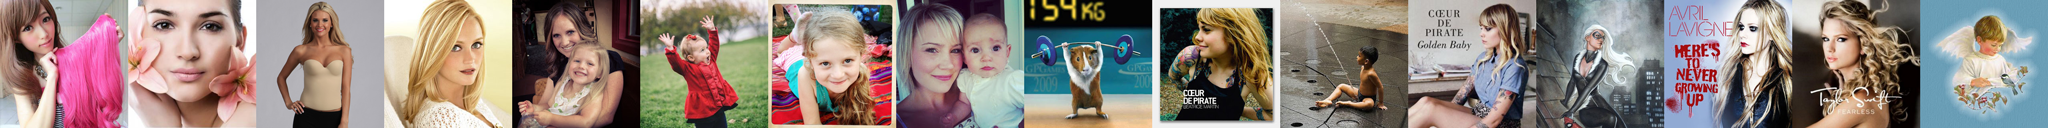
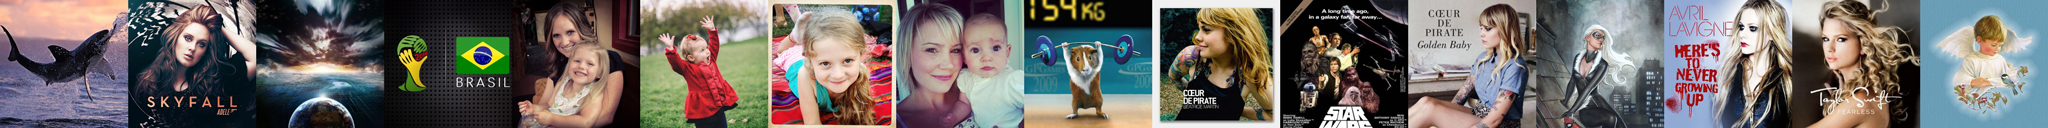
change the name and fix bugs

diff --git a/minigame/src/com/phoenixie/minigame/MiniGame.java b/minigame/src/com/phoenixie/minigame/MiniGame.java
@@ -303,8 +303,7 @@ public class MiniGame extends Game implements GestureListener {
 
 		tableWidth = TABLE_WIDTH;
 		boiteWidth = (tableWidth - 2 * CADRE_WIDTH - (boiteHorzCount - 1)
-				* LINE_WIDTH)
-				/ boiteHorzCount;
+				* LINE_WIDTH) / boiteHorzCount;
 		tableHeight = boiteVertCount * boiteWidth + (boiteVertCount - 1)
 				* LINE_WIDTH + 2 * CADRE_WIDTH;
 
@@ -452,6 +451,7 @@ public class MiniGame extends Game implements GestureListener {
 		generateChiffre();
 
 		shufflePhotos();
+		shufflePictures();
 
 		Gdx.graphics.requestRendering();
 	}
@@ -702,8 +702,10 @@ public class MiniGame extends Game implements GestureListener {
 	private void showSettings() {
 		if (settings.boiteType == BoiteType.CHIFFRES) {
 			checkChiffres.setChecked(true);
-		} else {
+		} else if (settings.boiteType == BoiteType.PHOTOS) {
 			checkPhotos.setChecked(true);
+		} else {
+			checkPictures.setChecked(true);
 		}
 		
 		switch (settings.boiteHorzCount) {
@@ -814,6 +816,17 @@ public class MiniGame extends Game implements GestureListener {
 
 	}
 
+	private void shufflePictures() {
+
+		for (int i = 0; i < pictures.length; i++) {
+			int randomPosition = random.nextInt(pictures.length);
+			TextureRegion temp = pictures[i];
+			pictures[i] = pictures[randomPosition];
+			pictures[randomPosition] = temp;
+		}
+
+	}
+	
 	private void calVideBoites() {
 		videBoitesCount = 0;
 		for (int i = 0; i < boiteHorzCount; ++i) {
